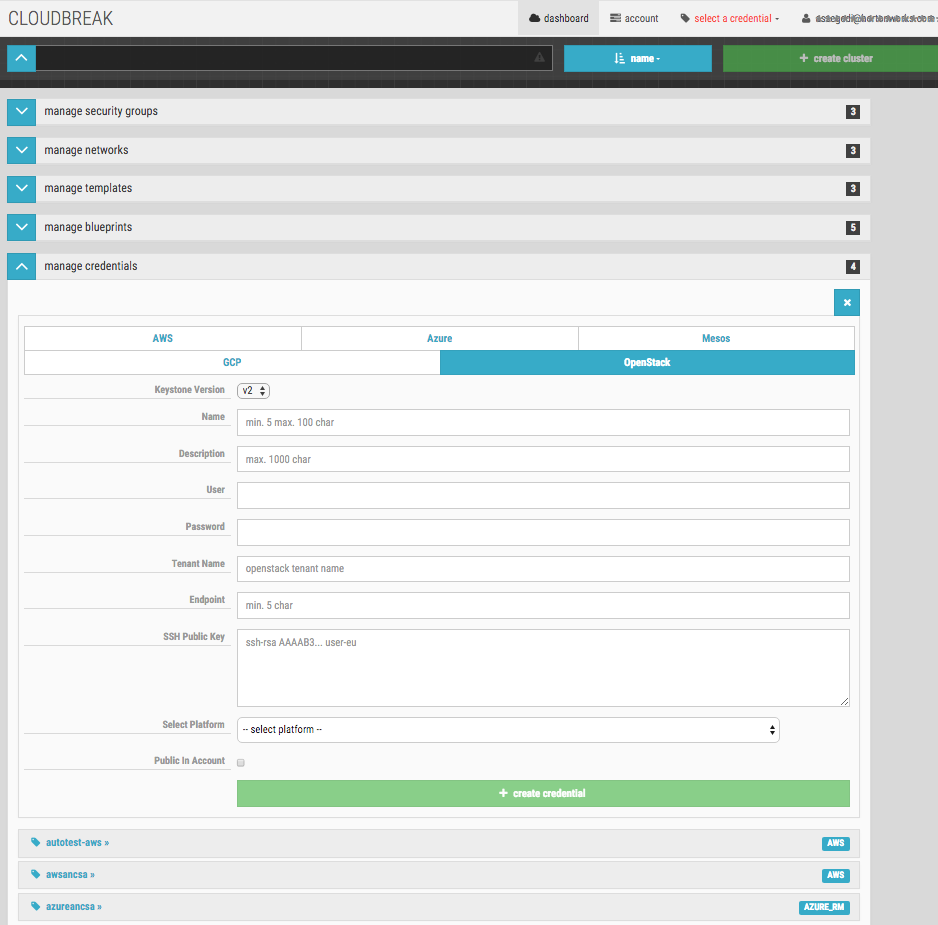
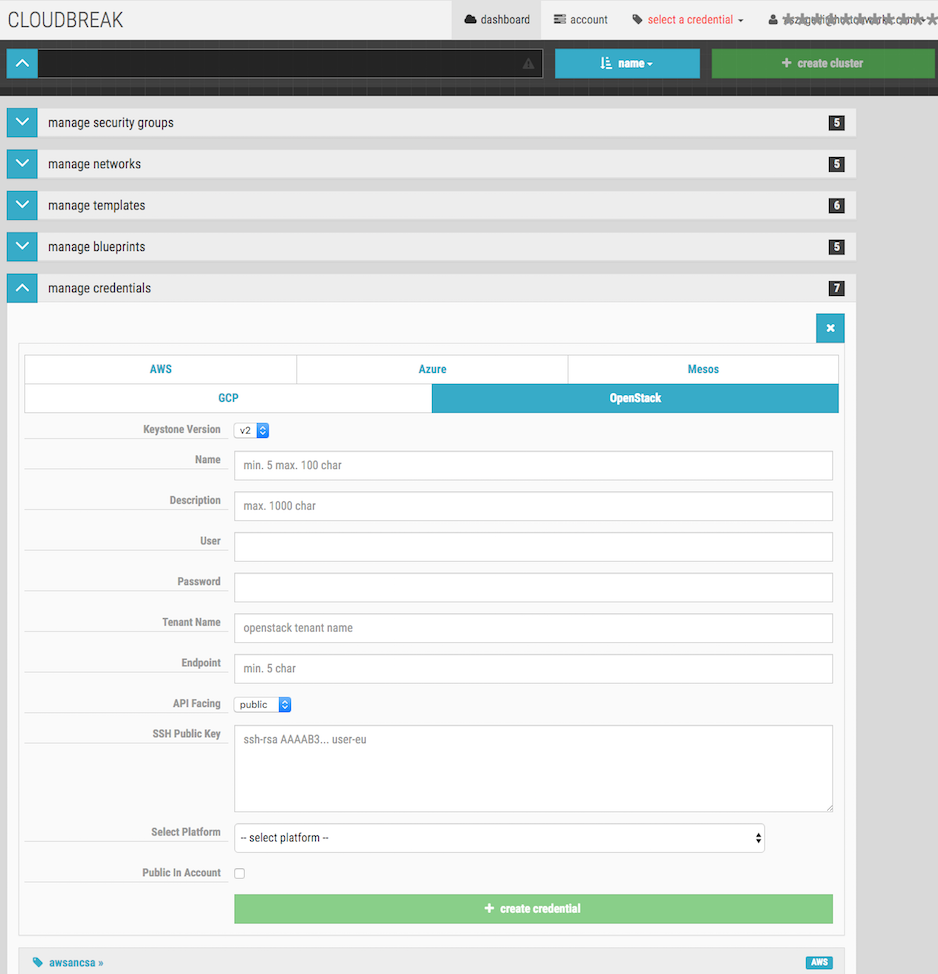
CLOUD-54633 Openstack API facing options

Changed region(s): [[0.0, 0.0, 1.0, 1.0], [0.0309, 0.9081, 0.1237, 0.9989]]

diff --git a/docs/openstack/ui/credential.md b/docs/openstack/ui/credential.md
@@ -19,7 +19,7 @@ To create a new OpenStack credential follow these steps:
     - The **SSH username** for the OpenStack instances is **centos**.
 
 >Any other parameter is optional here. You can read more about Keystone v3 [here](http://developer.openstack.org/api-ref-identity-v3.html).
-
+>Facing is the URL perspective in which the API is accessing data.
 >`Public in account` means that all the users belonging to your account will be able to use this credential to create 
 clusters, but cannot delete it.
 

diff --git a/docs/openstack/shell/credential.md b/docs/openstack/shell/credential.md
@@ -17,6 +17,12 @@ Alternatives to provide `SSH Key`:
 - you can upload your public key from an url: `—sshKeyUrl` 
 - or you can add the path of your public key: `—sshKeyPath`
 
+Other available option:
+
+`--facing` URL perspective in which the API is accessing data, allowed types are: public, admin and internal.
+>If facing not specified OpenStack default value will applied.
+
+
 You can check whether the credential was created successfully
 
 ```
